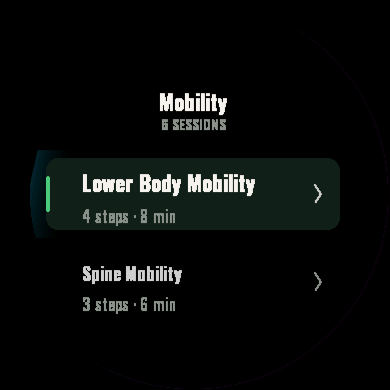
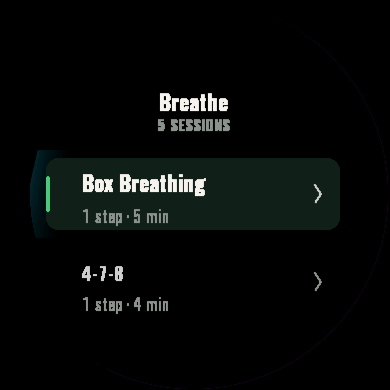
Polish: clearer small labels, real screenshots replace Roboto mockups, store text for X-ray figures

diff --git a/tools/make_fonts.py b/tools/make_fonts.py
@@ -30,7 +30,7 @@ WEIGHTS = {"Regular": 400, "Medium": 500, "SemiBold": 600, "Bold": 700}
 # centred in the cell) so timers do not jitter. Oswald runs taller than Roboto
 # Condensed at the same pixel size, hence the slightly smaller sizes.
 FONTS = [
-    ("Label", "rc_label", "Medium", 14, TEXT),    # small uppercase labels
+    ("Label", "rc_label", "SemiBold", 15, TEXT),  # small uppercase labels (SemiBold so digits stay distinct)
     ("Small", "rc_small", "Regular", 16, TEXT),   # subtitles, cues, table rows
     ("Body", "rc_body", "Medium", 18, TEXT),      # list names, clock
     ("Title", "rc_title", "SemiBold", 22, TEXT),  # titles, phase word, values

diff --git a/HANDOVER.md b/HANDOVER.md
@@ -46,7 +46,7 @@ Build notes: `monkey.jungle` pins `base.sourcePath`/`resourcePath`, because the 
 1. Sideload `bin\restora.prg` to a physical FR165 (copy to `GARMIN\APPS`), then check haptics, readability on AMOLED, buttons and battery during a 20-minute session.
 2. Go through every session in the simulator once (all 17), using the QA checklist in `docs/DESIGN_SYSTEM.md`.
 3. Add a front view to the figure renderer, then animate the upper-body exercises (neck, shoulders, arms, thoracic rotation, ankle circles) and the rest of the 42-movement library.
-4. Regenerate `docs/mockups/screen-*.png` (needs Playwright for `tools/mockups/render.js`); they still show Roboto.
+4. After UI changes, retake the simulator screenshots in `docs/store/screenshots/` and run `python tools/store/make_store_images.py`.
 5. Store listing: screenshots, description, and the permanent signing key.
 
 ```powershell
@@ -85,7 +85,7 @@ Tests/                   CalculationTests, SessionEngineTests, MotionTests, Moti
   - validates the biomechanics (floor contact, joint ranges, hands at the wall, body outline above the floor),
   - checks that every frame stays inside the HUD ring,
   - generates the `.mc` data, the golden test values and the previews.
-- **Mockups must pass the layout check**: `node tools/mockups/render.js` must print `layout check: no issues`.
+- **Screens are checked on simulator screenshots** (`docs/store/screenshots/`); the old HTML mockups are reference only.
 - **Fonts are generated** from `tools/fonts/RobotoCondensed-VF.ttf` (SIL OFL) by `python tools/make_fonts.py`.
 
 ## Tools
@@ -93,7 +93,8 @@ Tests/                   CalculationTests, SessionEngineTests, MotionTests, Moti
 | Command | Needs |
 |---|---|
 | `python tools\motion\motion_model.py` | Python 3 + Pillow |
-| `node tools\mockups\render.js` (renders `docs/mockups/*.png` + layout check) | Node + Playwright with Chromium |
+| `python tools\store\make_store_images.py` (Store / marketing images from the screenshots) | Python 3 + Pillow |
+| `powershell -File tools\release.ps1 -Key <key>` (tests + signed `dist\RESTORA-<ver>.iq`) | Connect IQ SDK, Java |
 | `python tools\make_fonts.py` | Python 3 + Pillow |
 
 ## Documentation

diff --git a/docs/MOTION_ENGINE.md b/docs/MOTION_ENGINE.md
@@ -81,7 +81,7 @@ The prompt's ~60-file tree was condensed: many of the proposed files would have 
 | Cat-Cow | BREATH_SYNC loop | cat ⇄ cow, 4 s each (in-out sine); spine highlighted; arc arrow per phase; haptic on each change | wrists under shoulders, knees under hips |
 | Ankle Pumps | REPETITION loop | point (40° plantarflexion) ⇄ flex (22° dorsiflexion), 1 s each; lower leg and foot only; range arc; rep count | ankle within −56…+35°, heel never below the floor |
 
-Previews: `docs/mockups/motion-calf-stretch.png`, `motion-cat-cow.png`, `motion-ankle-pumps.png`, and the HUD screens 14–16 in `restora-ui-mockups.png` and `motion-hud.png`.
+Previews: `docs/mockups/motion-*.png` (one strip per animation, Anatomy X-Ray style); on-watch HUD screenshots in `docs/store/screenshots/` (`07-figure.png`, `08-figure-hip.png`, `09-figure-front.png`).
 
 ## Settings
 
@@ -117,7 +117,7 @@ Previews: `docs/mockups/motion-calf-stretch.png`, `motion-cat-cow.png`, `motion-
 
 ```sh
 python3 tools/motion/motion_model.py      # validate poses + regenerate data/golden/previews
-node tools/mockups/render.js              # mockups + layout check (must say "no issues")
+# legacy: node tools/mockups/render.js (Roboto mockups, reference only)
 monkeyc -f monkey.jungle -d fr165 -o bin/restora-test.prg -y developer_key.der --unit-test
 connectiq & monkeydo bin/restora-test.prg fr165 /t
 ```

diff --git a/docs/store/RELEASE_NOTES.md b/docs/store/RELEASE_NOTES.md
@@ -4,7 +4,7 @@
 
 - Six modules (Breathe, Mind, Circulate, Mobility, Sleep, Recover) with 33 guided sessions and 51 exercises, including a custom breathing pattern.
 - Session engine driven by real time: countdown, optional rest between exercises, pause/resume, skip (DOWN), previous/restart (UP), manual or automatic advance, early end with confirmation.
-- Animated anatomical exercise figures for all 36 movement exercises (side view, close-ups, and a 3/4 front view for neck, shoulder and chest work); breathing pacer for breathing exercises; reduced-motion and low-detail options.
+- Animated anatomical exercise figures for all 36 movement exercises (side view, close-ups, and a 3/4 front view for neck, shoulder and chest work); breathing pacer for breathing exercises; Anatomy X-Ray style with the target muscle in red (classic grey figure in Settings); reduced-motion and low-detail options.
 - Haptic cues for new exercise, side change and completion; breathing cues limited to about one per breath cycle.
 - Optional heart rate and HRV (RMSSD from Garmin beat intervals), off by default.
 - Session summary, weekly dashboard, and history with a detail page per session.

diff --git a/docs/RESTORA.md b/docs/RESTORA.md
@@ -74,6 +74,6 @@ The design is a sport-tech recovery look: Roboto Condensed, AMOLED black, one gr
 - Fonts: `python3 tools/make_fonts.py` regenerates `resources/fonts/` from `tools/fonts/RobotoCondensed-VF.ttf` (SIL OFL).
 - Motion model: `python3 tools/motion/motion_model.py` validates exercise poses and regenerates
   `source/Motion/Exercise/ExercisePoseData.mc`, test golden values and previews.
-- Mockups: `node tools/mockups/render.js` renders `docs/mockups/` from `tools/mockups/restora_mockups.html`. The mockups use the same per-mille layout, palette, font metrics, ring geometry and icons as the Monkey C views. They are not simulator screenshots: CustomMenu scrolling is approximated and the data is illustrative. The renderer also runs a layout check (safe circle, ring clearance, overlaps).
+- Screens: real simulator screenshots in `docs/store/screenshots/`; marketing images built from them by `tools/store/make_store_images.py`. The older HTML mockups (`tools/mockups/`, Roboto) are kept for reference only.
 
-![RESTORA UI mockups](docs/mockups/restora-ui-mockups.png)
+![RESTORA hero](docs/store/marketing/hero-1920x1080.png)

diff --git a/docs/DESIGN_SYSTEM.md b/docs/DESIGN_SYSTEM.md
@@ -67,7 +67,7 @@ Radial zones: the **core** (r ≤ 120) holds the primary content (timer, figure,
 
 - Line widths come from the safe circle at that height. Text that is too wide drops to a smaller font, and only then is cut (`Theme.fitLine`).
 - Exercise names are at most 22 characters and cues at most 26 (`testContentFitsHud`).
-- `node tools/mockups/render.js` runs the **layout check**. It flags any ink box outside the safe circle, any box touching the HUD ring, and any two boxes that overlap. It must print `layout check: no issues`.
+- Screens are checked on simulator screenshots (`docs/store/screenshots/`, 390 × 390). The old HTML mockup renderer (`tools/mockups/`) still uses Roboto and illustrative data; it is kept for reference only and is no longer the source of truth.
 
 ## Screens
 

diff --git a/README.md b/README.md
@@ -25,7 +25,7 @@ Dokumen lanjutan:
 
 ### RESTORA
 
-| ![RESTORA 1](<docs/mockups/restora-ui-mockups.png>) | ![RESTORA 2](<docs/mockups/screen-01.png>) | ![RESTORA 3](<docs/mockups/motion-hud.png>) | ![RESTORA 4](<docs/mockups/motion-calf-stretch.png>) | ![RESTORA 5](<docs/mockups/motion-cat-cow.png>) |
+| ![RESTORA 1](<docs/store/screenshots/01-home.png>) | ![RESTORA 2](<docs/store/screenshots/07-figure.png>) | ![RESTORA 3](<docs/store/screenshots/09-figure-front.png>) | ![RESTORA 4](<docs/store/screenshots/04-breathing.png>) | ![RESTORA 5](<docs/store/screenshots/05-summary.png>) |
 |---|---|---|---|---|
 
 ### RacePilot

diff --git a/docs/store/STORE_LISTING.md b/docs/store/STORE_LISTING.md
@@ -26,7 +26,7 @@ RESTORA is a guided recovery companion for your Forerunner 165. Choose a short s
 
 **Built for the watch**
 
-- Animated exercise figures show each movement; the timer never depends on the animation.
+- Anatomy X-Ray exercise figures: a dark scan-style body with the working muscle in red, for all 36 movements. The timer never depends on the animation.
 - Haptic cues for each new exercise, side change and the end of a session.
 - Button-first control: START to pause, DOWN to skip, UP to go back.
 - Optional rest between exercises (10, 15 or 30 s).
